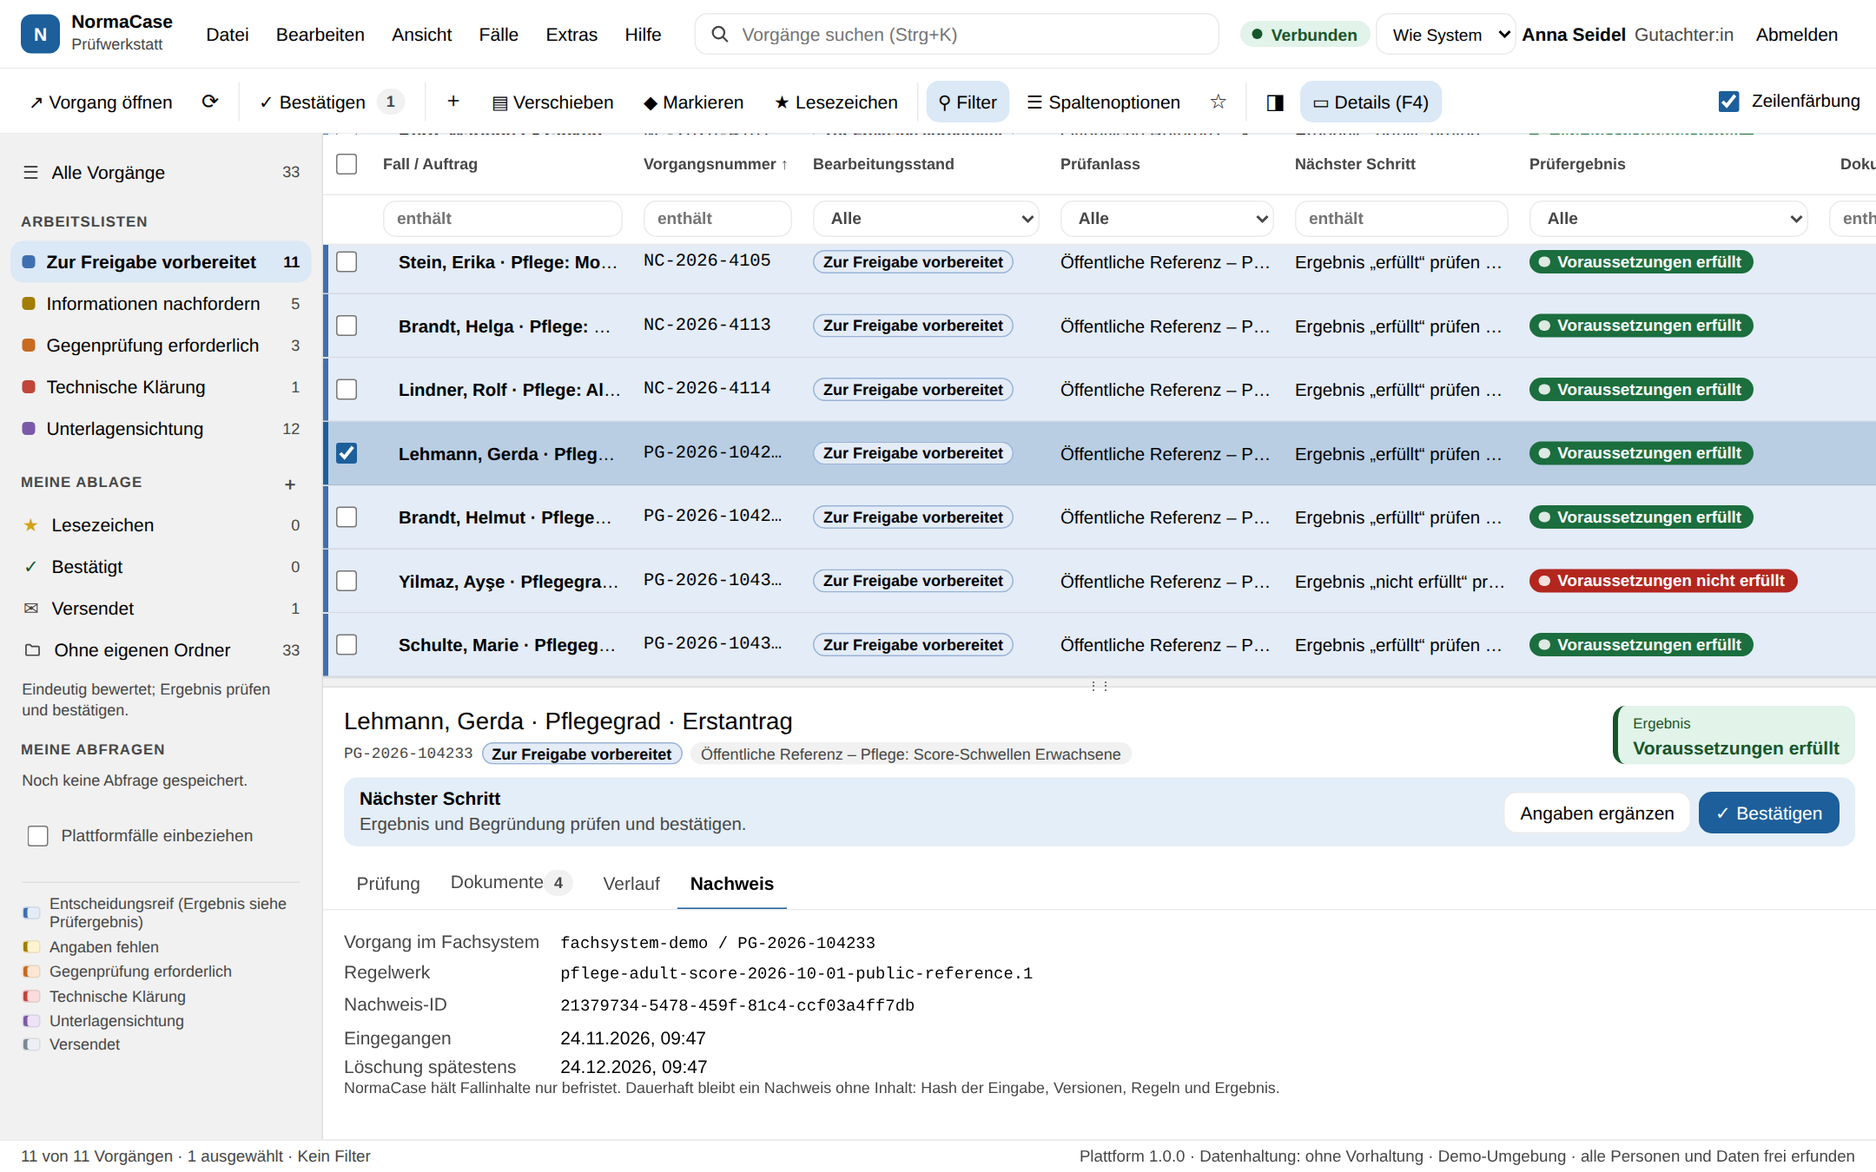
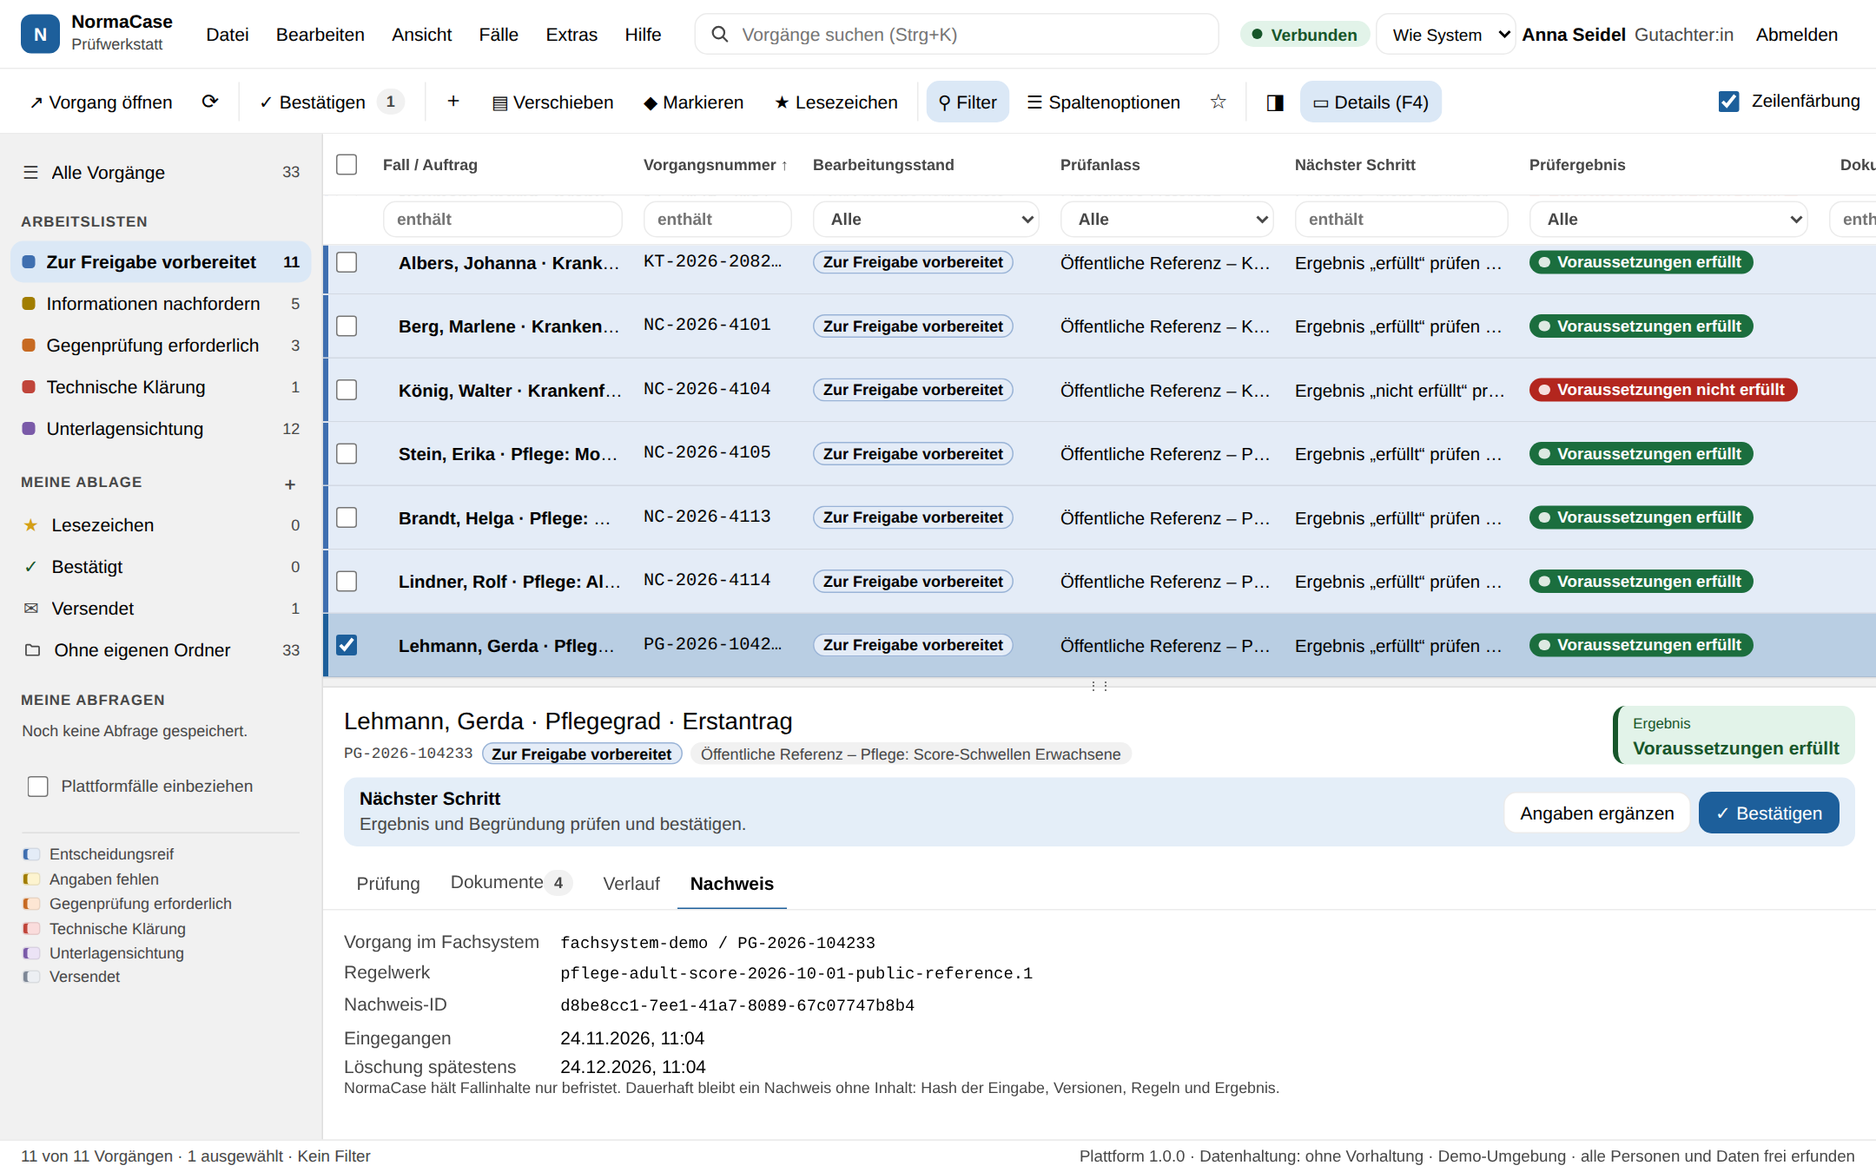
Oberfläche ohne erklärende Kurztexte (#423)
* Oberfläche: erklärende Kurztexte unter Überschriften entfernt

Hinweise unter Arbeitslisten, Extras-Ansichten, Dialogfeldern,
Prüfwerkstatt und Anmeldung entfallen; Überschriften und Beschriftungen
sprechen für sich. Bestätigungsfragen (Ordner löschen, Freigeben)
bleiben.

* Legende: Entscheidungsreif

* Screenshots ohne Hinweistexte

* Fallliste: kein seitliches Mitscrollen beim Fokussieren; Listenwechsel beginnt oben links

* Fokus-Hilfe ohne scrollIntoView-Pflicht

* Listenwechsel: Scrollposition ohne scrollTo zurücksetzen

* Screenshots ohne Hinweistexte

diff --git a/frontend/src/app/de.ts b/frontend/src/app/de.ts
@@ -16,7 +16,6 @@ export const de = {
   },
   auth: {
     title: 'Anmeldung',
-    intro: 'Melde dich mit deinem Konto des Hauses an, um Arbeitskörbe und Fallakten zu sehen.',
     login: 'Anmelden',
     logout: 'Abmelden',
     initializing: 'Anmeldung wird geprüft …',
@@ -46,15 +45,6 @@ export const de = {
     documents: 'Unterlagensichtung',
     approval: 'Bestätigt',
     done: 'Versendet',
-  } as Record<string, string>,
-  queueHelp: {
-    review: 'Eindeutig bewertet; Ergebnis prüfen und bestätigen.',
-    clarification: 'Angaben oder Nachweise fehlen. Hier wird nichts geraten; Angaben ergänzen und neu bewerten.',
-    conflict: 'Angaben und Belege widersprechen sich. Ein Mensch prüft gegen; die Regel entscheidet nicht.',
-    technical: 'Vor der Bewertung ist ein technischer Fehler aufgetreten, etwa ein unbekanntes Regelwerk. Es gibt keine Bewertung.',
-    documents: 'Für diese Unterlagen ist kein Regelwerk hinterlegt. Sie können gesichtet werden; eine Entscheidung wird nicht erzeugt.',
-    approval: 'Bestätigt; wartet auf Freigabe durch eine zweite Person (Vier-Augen-Prinzip).',
-    done: 'Freigegeben und an das Fachsystem übergeben. Inhalte werden nach der Quittung gelöscht.',
   } as Record<string, string>,
   states: {
     IN_CLARIFICATION: 'Informationen nachfordern',
@@ -148,7 +138,6 @@ export const de = {
     rowColors: 'Zeilenfärbung',
     allCases: 'Alle Vorgänge',
     includePlatform: 'Plattformfälle einbeziehen',
-    allCasesHelp: 'Vorgänge, die nicht in einem eigenen Ordner liegen. Doppelklick oder Eingabe öffnet einen Vorgang; Rechtsklick öffnet das Kontextmenü.',
     open: 'Vorgang öffnen',
     back: 'Zurück zur Liste',
     previewBottom: 'Vorschau unten',
@@ -219,7 +208,7 @@ export const de = {
     showDetails: 'Details einblenden (F4)',
     detailsShort: 'Details (F4)',
     tones: {
-      ready: 'Entscheidungsreif (Ergebnis siehe Prüfergebnis)',
+      ready: 'Entscheidungsreif',
       missing: 'Angaben fehlen',
       conflict: 'Gegenprüfung erforderlich',
       technical: 'Technische Klärung',
@@ -236,7 +225,6 @@ export const de = {
       deleteFolder: 'Ordner löschen',
       deleteHelp: 'Der Ordner und seine Unterordner werden gelöscht. Die Vorgänge darin bleiben erhalten und liegen danach ohne eigenen Ordner.',
       folderName: 'Name',
-      folderNameHint: 'Arbeitsbegriffe statt Personennamen, z. B. „Rückfragen diese Woche“.',
       folderColor: 'Ordnerfarbe',
       parent: 'Übergeordneter Ordner',
       root: 'Meine Ablage',
@@ -253,7 +241,6 @@ export const de = {
       bookmarked: 'Mit Lesezeichen',
       removeFromFolder: 'Aus Ordner entfernen',
       note: 'Notiz',
-      noteHelp: 'Nur für dich sichtbar. Notizen werden zusammen mit den Fallinhalten gelöscht, sobald das Fachsystem die Übernahme quittiert.',
       queueColor: 'Arbeitslistenfarbe ändern',
       queueColorTitle: (name: string) => `Farbe für ${name}`,
       resetQueueColor: 'Vorgabe wiederherstellen',
@@ -271,10 +258,6 @@ export const de = {
       colors: { blue: 'Blau', teal: 'Petrol', green: 'Grün', amber: 'Bernstein', purple: 'Violett', rose: 'Rosé' } as Record<string, string>,
       colorPresets: 'Farbvorlagen',
       ownMark: 'Eigene Farbmarkierung',
-      allHelp: 'Vorgänge, die nicht in einem eigenen Ordner liegen. Doppelklick oder Eingabe öffnet einen Vorgang; Rechtsklick öffnet das Kontextmenü.',
-      bookmarksHelp: 'Vorgänge mit Lesezeichen, unabhängig von Arbeitsliste und Ordner.',
-      unfiledHelp: 'Vorgänge ohne eigenen Ordner.',
-      folderHelp: 'Eigener Ordner. Die Ablage ordnet nur; Bearbeitungsstand und Ergebnis ändern sich dadurch nicht.',
       approveHelp: (n: number) => `${n} bestätigte Vorgänge freigeben und an das Fachsystem übergeben? Wer bestätigt hat, kann nicht selbst freigeben.`,
       approveResult: (ok: number, total: number) => `${ok} von ${total} Vorgängen freigegeben.`,
     },
@@ -284,7 +267,6 @@ export const de = {
     all: 'Alle',
     filterFor: (column: string) => `Filter für ${column}`,
     columnOptions: 'Spaltenoptionen',
-    columnOptionsHelp: 'Spalten hinzufügen, entfernen und in die gewünschte Reihenfolge bringen.',
     addColumn: 'Spalte hinzufügen',
     chooseColumn: 'Spalte wählen',
     removeColumn: (column: string) => `${column} entfernen`,
@@ -294,7 +276,6 @@ export const de = {
     apply: 'Übernehmen',
     cancel: 'Abbrechen',
     saveQuery: 'Als Abfrage speichern',
-    saveQueryHelp: 'Gespeichert werden Korb, Spalten, Sortierung und Filter. Filter auf Namen gelten nur in dieser Sitzung.',
     queryName: 'Name der Abfrage',
     save: 'Speichern',
     myQueries: 'Meine Abfragen',
@@ -388,12 +369,6 @@ export const de = {
       massenfaelle: 'Massenfälle',
       nachweise: 'Nachweise prüfen',
     } as Record<string, string>,
-    viewHelp: {
-      pruefwerkstatt: 'Ein Regelwerk direkt ausprobieren: Angaben setzen, prüfen, Ergebnis und Snapshot exportieren, Snapshot später nachprüfen.',
-      referenzfaelle: 'Die Beispiele jedes Regelwerks mit dokumentiertem Ergebnis. „Alle prüfen“ bewertet sie neu und vergleicht.',
-      massenfaelle: 'Überblick über die synthetischen Plattformfälle: wie viele in welcher Arbeitsliste mit welchem Ergebnis.',
-      nachweise: 'Entscheidungsnachweise eines Vorgangs ansehen. Gespeichert sind nur Prüfsummen, Versionen, Regel und Ergebnis – keine Fallinhalte.',
-    } as Record<string, string>,
     needsAssessor: 'Diese Ansicht steht der Rolle Gutachter:in zur Verfügung.',
     release: 'Regelwerk',
     example: 'Beispiel',
@@ -412,7 +387,6 @@ export const de = {
     reset: 'Zurücksetzen',
     resultHeading: 'Ergebnis',
     noResult: 'Noch kein Ergebnis',
-    noResultText: 'Angaben setzen oder ein Beispiel laden und „Prüfen“ wählen.',
     platform: 'Plattform',
     evidenceId: 'Nachweis',
     inputHash: 'Prüfsumme der Eingabe',
@@ -421,7 +395,6 @@ export const de = {
     exportResult: 'Ergebnis exportieren',
     exportSnapshot: 'Snapshot exportieren',
     snapshotHeading: 'Snapshot nachprüfen',
-    snapshotHelp: 'Ein exportierter Snapshot enthält Eingabe und Nachweis-Kennung. NormaCase bewertet die Eingabe mit demselben Regelwerk neu und vergleicht Prüfsummen und Ergebnis mit dem gespeicherten Nachweis.',
     chooseFile: 'Snapshot-Datei wählen …',
     snapshotTooLarge: 'Die Datei ist größer als 1 MB.',
     snapshotInvalid: 'Die Datei ist kein NormaCase-Snapshot.',
@@ -457,7 +430,6 @@ export const de = {
     actor: 'Durch',
     rule: 'Regel',
     useActive: 'Aktiven Vorgang übernehmen',
-    retentionNote: 'Fallinhalte sind nach der Quittung gelöscht. Zum Nachprüfen reicht das Fachsystem die Originaleingabe erneut ein; gleiche Prüfsumme, gleiches Regelwerk und gleicher Stichtag ergeben dasselbe Ergebnis.',
   },
   trace: {
     result: 'Ergebnis', missingFields: 'Fehlende Pflichtangaben', reasoning: 'Begründung', rule: 'Regel', ruleVersion: 'Version',

diff --git a/frontend/src/app/workbench/workbench.html b/frontend/src/app/workbench/workbench.html
@@ -97,7 +97,6 @@
     }
     <button type="button" class="nav-item" [attr.aria-current]="queue() === 'unfiled' ? 'true' : null" (click)="openQueue('unfiled')">
       <span class="nav-folder-icon muted" aria-hidden="true"><svg width="14" height="14" viewBox="0 0 16 16" aria-hidden="true"><path d="M2.25 4.25c0-.4.35-.75.75-.75h2.85l1.5 1.6h5.65c.4 0 .75.35.75.75v6.15c0 .4-.35.75-.75.75H3c-.4 0-.75-.35-.75-.75z" fill="none" stroke="currentColor" stroke-width="1.3"/></svg></span><span class="nav-label">{{ t.wb.ablage.unfiled }}</span><span class="nav-count">{{ count('unfiled') }}</span></button>
-    <p class="nav-help">{{ queueHelp(queue()) }}</p>
     <h2 class="nav-heading">{{ t.wb.myQueries }}</h2>
     @for (q of view().queries; track q.name) {
       <div class="nav-query">
@@ -119,7 +118,7 @@
       <section class="tool-view" [attr.aria-labelledby]="'tool-title'">
         <header class="tool-view-head">
           <button type="button" class="button ghost" (click)="closeExtras()">← {{ t.extras.back }}</button>
-          <div><h2 id="tool-title" tabindex="-1">{{ t.extras.views[v] }}</h2><p class="muted">{{ t.extras.viewHelp[v] }}</p></div>
+          <h2 id="tool-title" tabindex="-1">{{ t.extras.views[v] }}</h2>
         </header>
         @if (!isAssessor() && v !== 'massenfaelle') { <p class="banner">{{ t.extras.needsAssessor }}</p> }
         @switch (v) {
@@ -237,7 +236,6 @@
     <div class="dialog-card column-options" tabindex="-1" (keydown.escape)="columnDialog.set(null)" role="dialog" aria-modal="true" aria-labelledby="columns-title">
     <form class="dialog-form" (submit)="$event.preventDefault(); applyColumns()">
       <h3 id="columns-title">{{ t.wb.columnOptions }}</h3>
-      <p class="hint">{{ t.wb.columnOptionsHelp }}</p>
       <ol class="column-list">
         @for (c of draft; track c; let i = $index, first = $first, last = $last) {
           <li>
@@ -272,7 +270,6 @@
     <div class="dialog-card" tabindex="-1" (keydown.escape)="queryDialog.set(false)" role="dialog" aria-modal="true" aria-labelledby="query-title">
     <form class="dialog-form" (submit)="$event.preventDefault(); saveQuery(name.value)">
       <h3 id="query-title">{{ t.wb.saveQuery }}</h3>
-      <p class="hint">{{ t.wb.saveQueryHelp }}</p>
       <label class="field"><span>{{ t.wb.queryName }}</span><input #name id="query-name" type="text" maxlength="60" required autocomplete="off"></label>
       <div class="dialog-actions">
         <span class="spacer"></span>
@@ -362,13 +359,11 @@
               @for (f of folders(); track f.id) { <option [value]="f.id" [selected]="d.folderId === f.id">{{ '— '.repeat(f.depth) }}{{ f.label }}</option> }
             </select>
           </label>
-          <p class="hint">{{ t.wb.ablage.folderHelp }}</p>
         }
         @case ('note') {
           <label class="field"><span>{{ t.wb.ablage.note }}</span>
             <textarea rows="5" maxlength="1000" [value]="d.note" (input)="patchDialog({ note: $any($event.target).value })"></textarea>
           </label>
-          <p class="hint">{{ t.wb.ablage.noteHelp }}</p>
         }
         @case ('delete') { <p>{{ t.wb.ablage.deleteHelp }}</p> }
         @case ('approve') { <p>{{ t.wb.ablage.approveHelp(d.ids.length) }}</p> }
@@ -377,7 +372,6 @@
         <label class="field"><span>{{ t.wb.ablage.folderName }}</span>
           <input type="text" required maxlength="80" autocomplete="off" [value]="d.label" (input)="patchDialog({ label: $any($event.target).value })">
         </label>
-        <p class="hint">{{ t.wb.ablage.folderNameHint }}</p>
       }
       @if (d.kind === 'folder' || d.kind === 'rename' || d.kind === 'color' || d.kind === 'queueColor') {
         <label class="field color-field"><span>{{ d.kind === 'folder' || d.kind === 'rename' ? t.wb.ablage.folderColor : t.wb.ablage.markColor }}</span>

diff --git a/frontend/src/app/workbench/workbench.ts b/frontend/src/app/workbench/workbench.ts
@@ -226,6 +226,8 @@ export class Workbench {
   protected openQueue(id: string): void {
     this.extras.set(null);
     this.queue.set(id);
+    const list = document.querySelector('.list-scroll');
+    if (list) { list.scrollLeft = 0; list.scrollTop = 0; }
     setTimeout(() => this.active.set(this.visible()[0]?.processId ?? null));
     this.selection.set(new Set());
     this.active.set(null);
@@ -241,13 +243,6 @@ export class Workbench {
     return de.queues[id] ?? id;
   }
 
-  protected queueHelp(id: string): string {
-    if (id === ALL) return de.wb.allCasesHelp;
-    if (id === 'bookmarks') return de.wb.ablage.bookmarksHelp;
-    if (id === 'unfiled') return de.wb.ablage.unfiledHelp;
-    if (id.startsWith(FOLDER_PREFIX)) return de.wb.ablage.folderHelp;
-    return de.queueHelp[id] ?? '';
-  }
 
   /** Öffnet den Vorgang in voller Größe. */
   protected open(id: string | null): void {
@@ -260,7 +255,7 @@ export class Workbench {
   protected back(): void {
     const id = this.opened();
     this.opened.set(null);
-    setTimeout(() => document.querySelector<HTMLElement>(`tr[data-id="${id}"]`)?.focus());
+    setTimeout(() => focusRow(document.querySelector<HTMLElement>(`tr[data-id="${id}"]`)));
   }
 
   /** Klick wie im Explorer: einfach wählt aus, Strg ergänzt, Umschalt wählt einen Bereich. */
@@ -499,7 +494,7 @@ export class Workbench {
         this.anchor ??= p.processId;
         this.selectRange(this.anchor, target.processId);
       }
-      document.querySelector<HTMLElement>(`tr[data-id="${target.processId}"]`)?.focus();
+      focusRow(document.querySelector<HTMLElement>(`tr[data-id="${target.processId}"]`));
     };
     if (event.key === 'ContextMenu' || (event.shiftKey && event.key === 'F10')) { this.rowContext(event, p); return; }
     switch (event.key) {
@@ -773,7 +768,7 @@ export class Workbench {
     if (!this.contextMenu() && !this.navMenu()) return;
     this.contextMenu.set(null);
     this.navMenu.set(null);
-    if (restoreFocus) this.returnFocus?.focus();
+    if (restoreFocus) focusRow(this.returnFocus);
   }
 
   /** Pfeiltasten im Kontextmenü wie in einem Desktop-Menü. */
@@ -829,7 +824,7 @@ export class Workbench {
 
   protected closeDialog(): void {
     this.ablageDialog.set(null);
-    this.returnFocus?.focus();
+    focusRow(this.returnFocus);
     this.returnFocus = null;
   }
 
@@ -1076,4 +1071,14 @@ export class Workbench {
     this.notice.set(message);
     setTimeout(() => this.notice.set(''), 4000);
   }
+}
+
+/** Fokus auf eine Zeile ohne seitliches Mitscrollen: breite Zeilen würden sonst die erste Spalte aus dem Bild schieben. */
+function focusRow(el: HTMLElement | null): void {
+  if (!el) return;
+  const scroller = el.closest<HTMLElement>('.list-scroll');
+  const left = scroller?.scrollLeft ?? 0;
+  el.focus({ preventScroll: true });
+  el.scrollIntoView?.({ block: 'nearest' });
+  if (scroller) scroller.scrollLeft = left;
 }

diff --git a/frontend/src/app/extras/pack-workbench.ts b/frontend/src/app/extras/pack-workbench.ts
@@ -23,7 +23,7 @@ const MAX_SNAPSHOT = 1024 * 1024;
   template: `
     <div class="tool-grid">
       <section class="tool-card" [attr.aria-label]="x.facts">
-        <header class="tool-head"><span class="step">01</span><div><h3>{{ x.release }}</h3><p class="muted">{{ presentation().description ?? '' }}</p></div></header>
+        <h3>{{ x.facts }}</h3>
         <form class="tool-form" (submit)="$event.preventDefault(); check()">
           <label class="field"><span>{{ x.release }}</span>
             <select [attr.aria-label]="x.release" [value]="releaseId()" (change)="selectRelease($any($event.target).value)">
@@ -40,7 +40,6 @@ const MAX_SNAPSHOT = 1024 * 1024;
             <button type="button" class="button" [disabled]="!exampleId() || busy()" (click)="loadExample()">{{ x.loadExample }}</button>
           </div>
           <label class="field"><span>{{ x.date }}</span><input type="date" required [attr.aria-label]="x.date" [value]="form().date" (input)="patch({ date: $any($event.target).value })"></label>
-          <h4 class="tool-subhead">{{ x.facts }}</h4>
           @for (f of form().fields; track f.id) {
             <div class="field">
               <span [id]="'pw-l-' + f.id">{{ fieldLabel(f.id) }} <small class="muted">{{ f.required ? x.required : x.optional }}</small></span>
@@ -82,7 +81,7 @@ const MAX_SNAPSHOT = 1024 * 1024;
       </section>
 
       <section class="tool-card" aria-live="polite" [attr.aria-label]="x.resultHeading">
-        <header class="tool-head"><span class="step">02</span><div><h3>{{ x.resultHeading }}</h3><p class="muted">{{ releaseName(releaseId()) }}</p></div></header>
+        <h3>{{ x.resultHeading }}</h3>
         @if (result(); as r) {
           @if (view(); as a) {
             <nc-decision-trace [assessment]="a" [fieldLabels]="fieldLabels()" [evidenceLabels]="evidenceLabels()" [outputLabels]="outputLabels()" />
@@ -99,14 +98,13 @@ const MAX_SNAPSHOT = 1024 * 1024;
             <button type="button" class="button" (click)="exportSnapshot()">⤓ {{ x.exportSnapshot }}</button>
           </div>
         } @else {
-          <div class="tool-empty"><span aria-hidden="true">✓</span><h4>{{ x.noResult }}</h4><p class="muted">{{ x.noResultText }}</p></div>
+          <p class="tool-empty">{{ x.noResult }}</p>
         }
       </section>
     </div>
 
     <section class="tool-card snapshot" aria-live="polite" [attr.aria-label]="x.snapshotHeading">
       <h3>{{ x.snapshotHeading }}</h3>
-      <p class="muted">{{ x.snapshotHelp }}</p>
       <input #file type="file" class="sr-only" accept=".json,application/json" [attr.aria-label]="x.chooseFile" (change)="verifySnapshot($any($event.target))">
       <button type="button" class="button" [disabled]="busy() || !canAssess()" (click)="file.click()">{{ x.chooseFile }}</button>
       @if (snapshotError()) { <p class="banner error" role="alert">{{ snapshotError() }}</p> }

diff --git a/frontend/src/styles.css b/frontend/src/styles.css
@@ -586,8 +586,6 @@ nc-workbench { grid-template-rows: auto auto minmax(0, 1fr) auto; }
 @media (max-width: 1100px) { .tool-grid { grid-template-columns: 1fr; } }
 .tool-card { display: grid; gap: .75rem; align-content: start; padding: 1rem 1.1rem; border: 1px solid var(--nc-border); border-radius: var(--nc-radius-lg); background: var(--nc-surface); box-shadow: var(--nc-shadow); min-width: 0; }
 .tool-card h3 { font-size: 1rem; }
-.tool-head { display: flex; gap: .75rem; align-items: flex-start; }
-.tool-head .step { display: inline-grid; place-items: center; min-width: 32px; height: 32px; border-radius: 999px; background: var(--nc-accent-soft); color: var(--nc-accent); font-weight: 600; font-size: .8rem; }
 .tool-form { display: grid; gap: .7rem; }
 .tool-form select, .tool-form input:not([type='file']), .tool-toolbar input { min-height: 32px; padding: 0 .55rem; border-radius: var(--nc-radius); border: 1px solid var(--nc-border-strong); background: var(--nc-surface); color: var(--nc-text); }
 .tool-form input[aria-invalid='true'] { border-color: var(--nc-bad); box-shadow: 0 0 0 1px var(--nc-bad); }
@@ -595,8 +593,7 @@ nc-workbench { grid-template-rows: auto auto minmax(0, 1fr) auto; }
 .field-inline { display: flex; gap: .5rem; align-items: flex-end; }
 .field-inline .grow, .field.grow { flex: 1; min-width: 0; }
 .tool-card .banner { margin: 0; }
-.tool-empty { display: grid; justify-items: center; gap: .35rem; padding: 2.5rem 1rem; text-align: center; color: var(--nc-text-2); }
-.tool-empty > span { display: grid; place-items: center; width: 44px; height: 44px; border-radius: 999px; background: var(--nc-muted-bg); font-size: 1.2rem; }
+.tool-empty { padding: 2.5rem 1rem; text-align: center; color: var(--nc-text-2); }
 .facts.compact { font-size: .78rem; }
 code.hash { font-size: .75rem; color: var(--nc-text-2); }
 details.raw { border: 1px solid var(--nc-border); border-radius: var(--nc-radius); }

diff --git a/frontend/src/app/extras/evidence-search.ts b/frontend/src/app/extras/evidence-search.ts
@@ -13,7 +13,6 @@ import { EvidenceRecord, ExtrasApi } from './extras-api';
         <label class="field"><span>{{ x.caseNumber }}</span><input type="text" required [attr.aria-label]="x.caseNumber" [value]="caseId()" (input)="caseId.set($any($event.target).value)"></label>
         <button type="submit" class="button primary" [disabled]="busy() || !system().trim() || !caseId().trim()">{{ x.search }}</button>
       </form>
-      <p class="muted">{{ x.retentionNote }}</p>
       @if (error()) { <p class="banner error" role="alert">{{ error() }}</p> }
       @if (records(); as list) {
         @if (list.length) {

diff --git a/frontend/src/app/app.html b/frontend/src/app/app.html
@@ -13,7 +13,6 @@
       <main class="login-page">
         <section class="login-card" aria-labelledby="login-title">
           <h1 id="login-title">{{ t.auth.title }}</h1>
-          <p>{{ t.auth.intro }}</p>
           @if (authError(); as error) { <p class="error" role="alert">{{ error }}</p> }
           <button type="button" class="button primary" (click)="auth.login()">{{ t.auth.login }}</button>
           <p class="muted small">{{ t.auth.demoHint }}</p>
